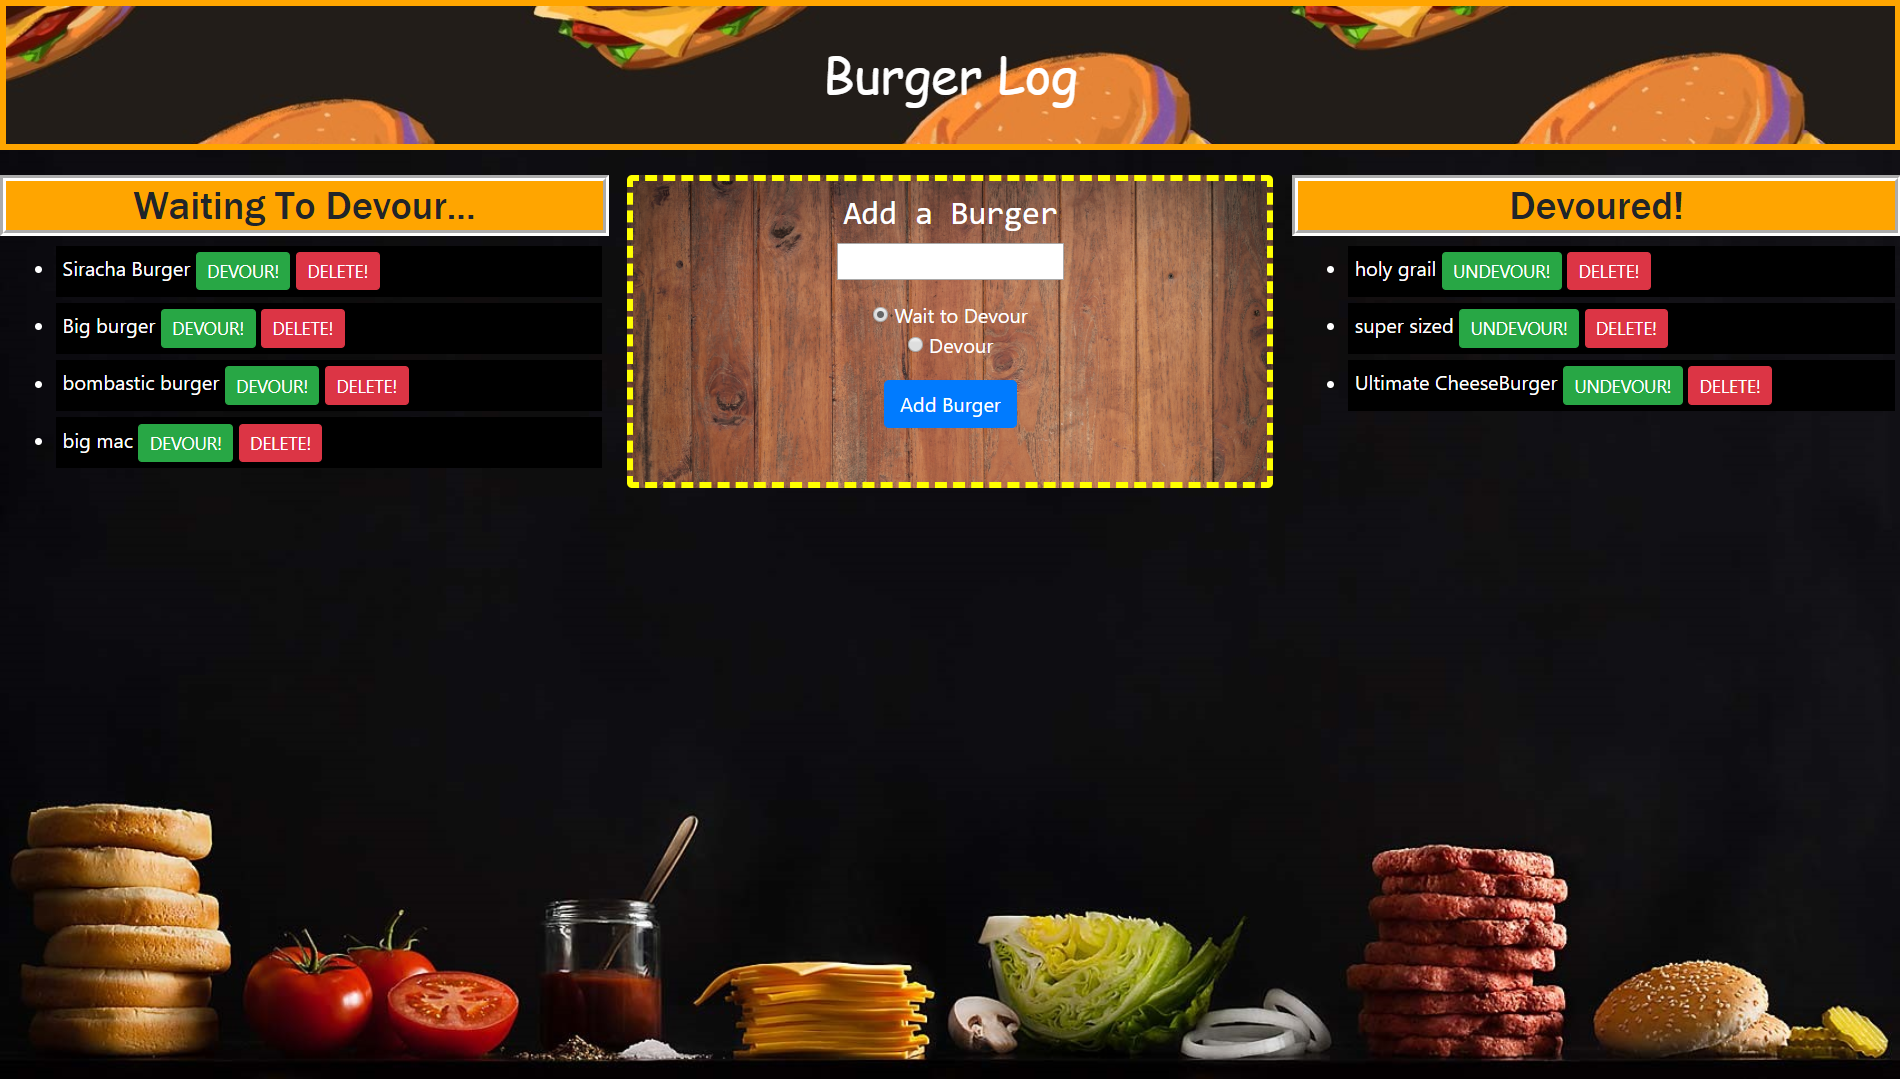
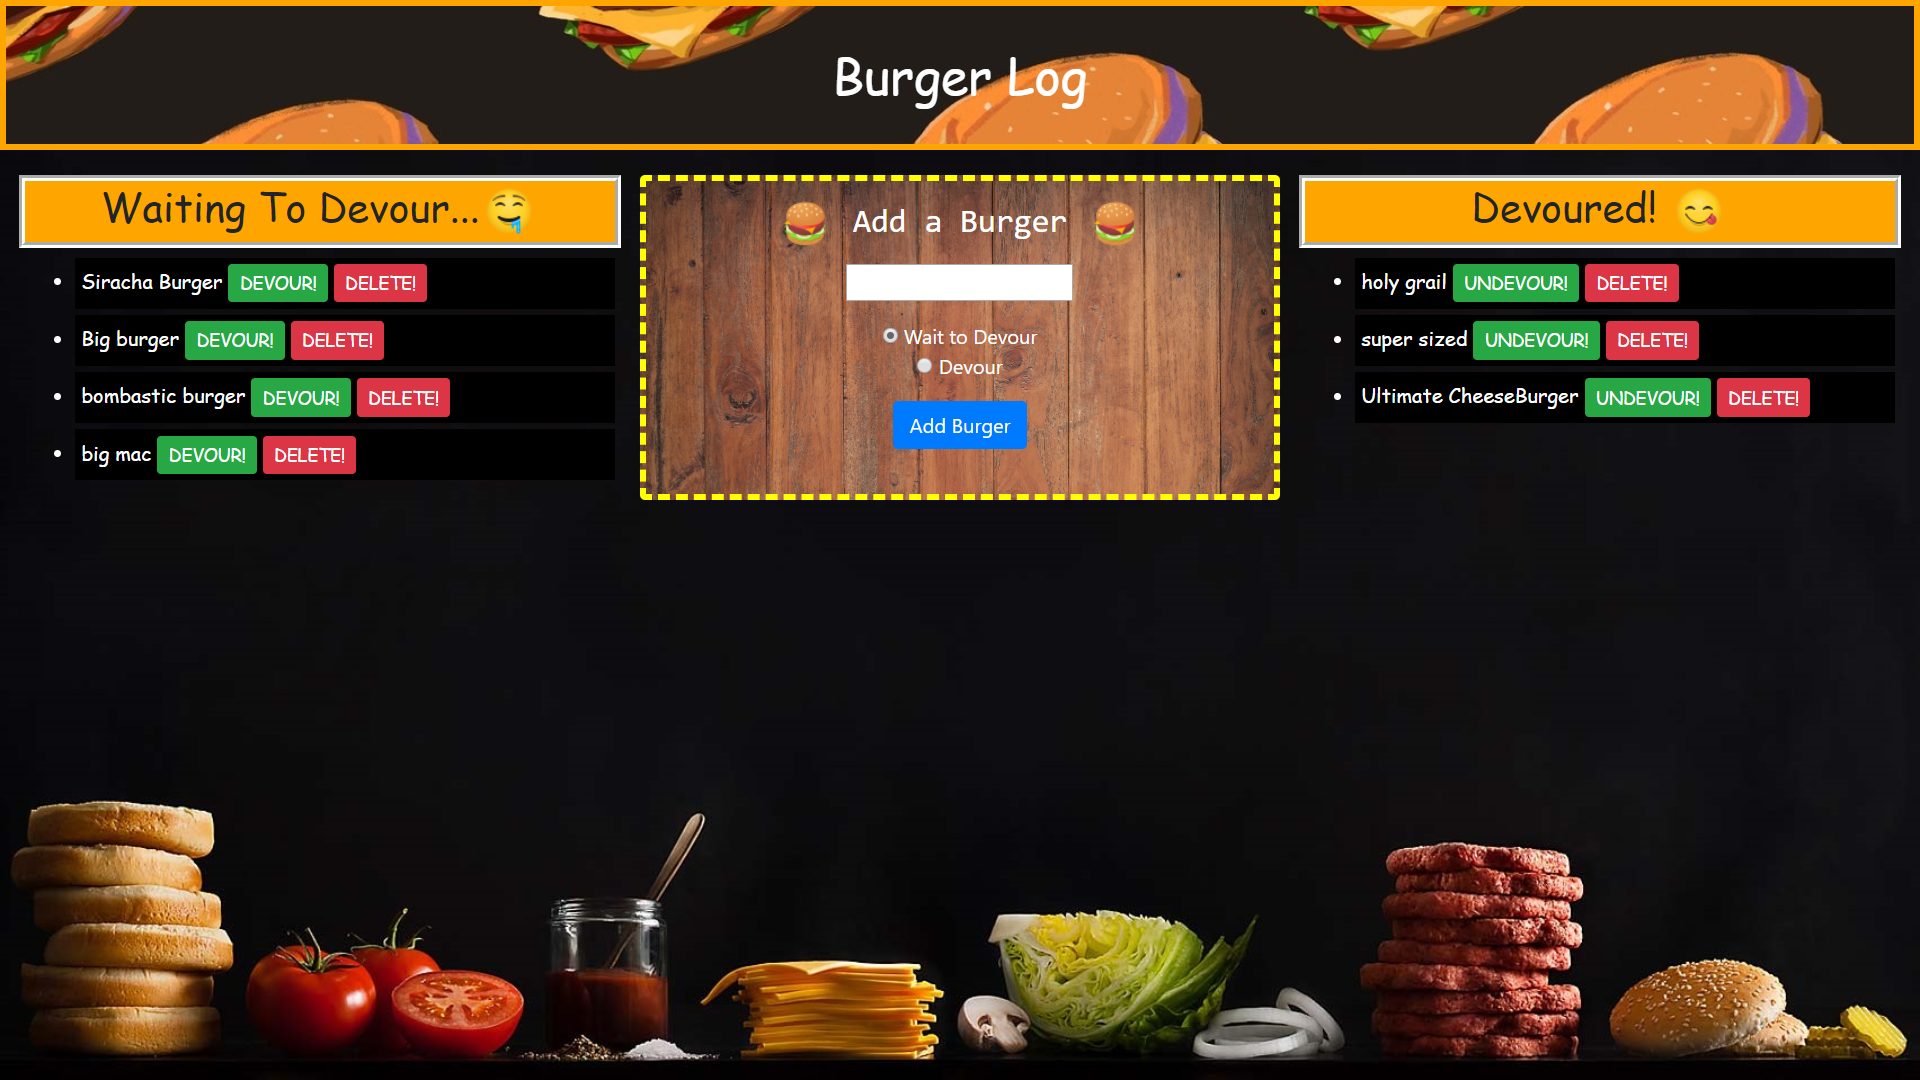
added styling

diff --git a/public/assets/css/style.css b/public/assets/css/style.css
@@ -17,6 +17,7 @@ li {
     padding: 5px;
     margin: 5px;
     background: black;
+    font-family: cursive;
 }
 
 ul {
@@ -69,7 +70,7 @@ h1 {
 
 h2 {
     text-align: center;
-    font-family: 'Franklin Gothic Medium', 'Arial Narrow', Arial, sans-serif;
+    font-family: cursive;
 }
 
 .listHeaders {
